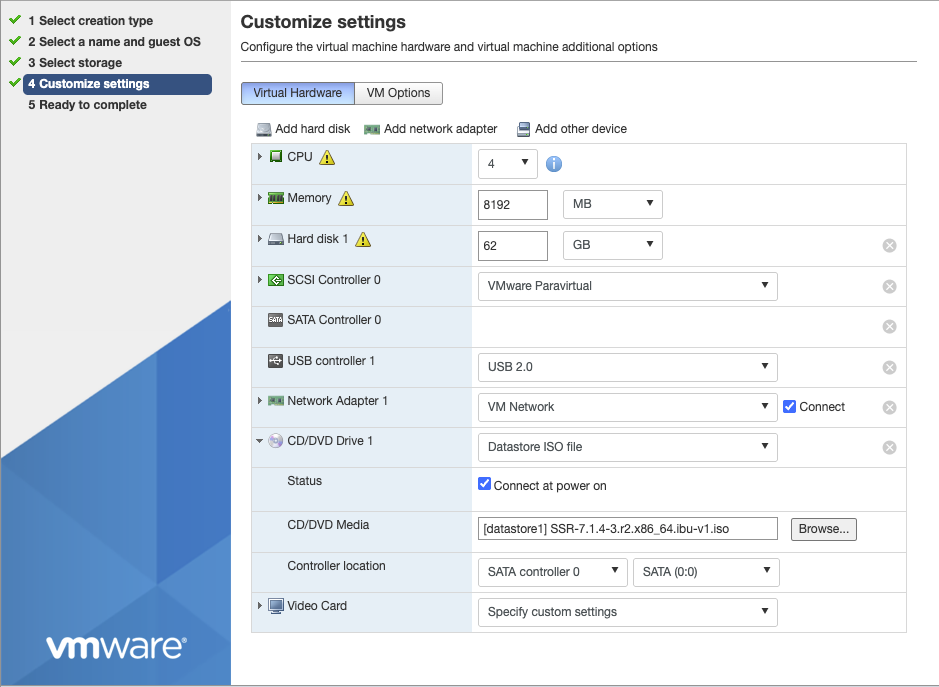
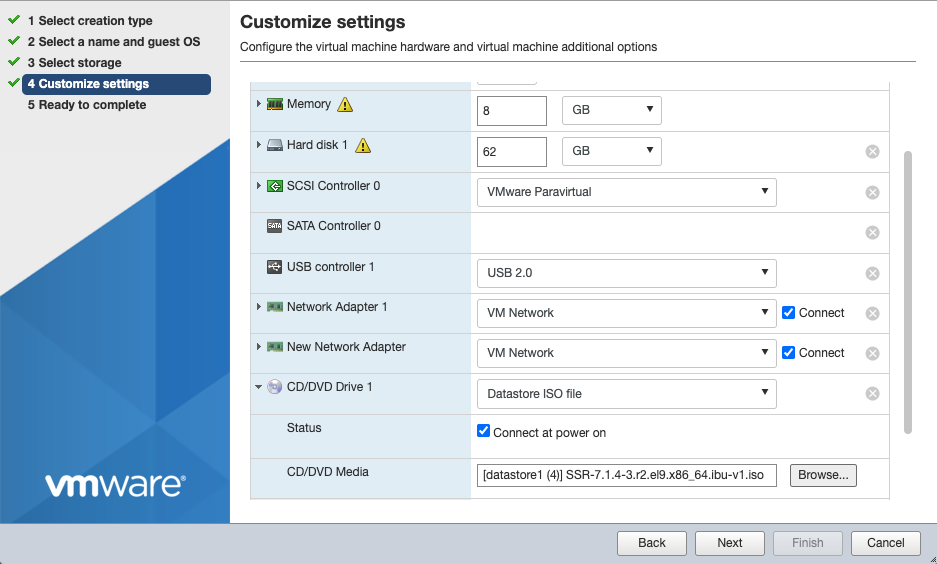
More vmware creation updates

diff --git a/docs/_vmware_router_vm_create.md b/docs/_vmware_router_vm_create.md
@@ -61,7 +61,7 @@ Use the steps below to configure the following:
 
 6. On the **Customize settings** screen, click **Virtual Hardware** and configure the following settings. 
 
-   Click **Virtual Hardware** and configure the following settings. These values meet the minimum router requirements:
+  These values meet the minimum router requirements:
 
    | Setting | Value | Notes |
    |---------|-------|-------|
@@ -71,9 +71,7 @@ Use the steps below to configure the following:
    | Hard Disk 1 | `62 GB` | Minimum |
    | SCSI Controller 0 | `VMware Paravirtual` | |
 
-   <!---![Storage Parameters](/img/dep5-vm-params.png)
-
-   Click **Next** when the settings are configured.--->
+   ![Storage Parameters](/img/dep5-vmrouter-params.png)
 
 ### Network Adapters
 
@@ -81,9 +79,15 @@ A VMware router requires at least **two VMXNet3 network adapters**: one for WAN 
 
    ![Network Adapter Type](/img/dep6-vmrouter-nics.png)
 
-7. Set the existing adapter's **Adapter Type** to **VMXNET3** and connect it to your **WAN portgroup** — the portgroup that provides your ISP WAN connection with DHCP. **how do I do this?
+7. Set the existing adapter's **Adapter Type** to **VMXNET3** and select the appropriate **portgroup** name for the virtual network that will provide access to your WAN.
 
-8. Click **Add network adapter** to add a second adapter. Set its **Adapter Type** to **VMXNET3** and connect it to your **LAN portgroup** — the portgroup connected to your branch LAN. **how do I do this?
+8. Click **Add network adapter** to add a second adapter. Set its **Adapter Type** to **VMXNET3** and select the appropriate **portgroup** name for the virtual network that will provide access to your LAN.
+
+   :::note
+   If you need help creating portgroups and connecting them to your appropriate infrastructure, please consult your VMWare documentation.
+   :::
+
+   ![Add Network Adapter](/img/dep6-vmrouter-nics2.png)
 
    :::note
    The order of the adapters (NIC 1 = WAN, NIC 2 = LAN) corresponds to the PCI addresses you will identify in [Step 3 — Find VM NIC PCI Addresses](deploy_vmware_router_pci.mdx). Note which portgroup each adapter is connected to.
@@ -91,7 +95,9 @@ A VMware router requires at least **two VMXNet3 network adapters**: one for WAN 
 
 ### CD/DVD Media - Software Selection
 
-9. As shown in the image above, expand **CD/DVD Drive 1**. 
+9. Expand **CD/DVD Drive 1**. 
+
+   ![CD Drive 1](/img/dep-vmrouter-image-select.png)
 
 10. Place a check next to **Connect at power on**. In the dropdown to the right, select **Datastore ISO file** and then click **Browse**. The Datastore Browser opens.
 
@@ -103,7 +109,7 @@ A VMware router requires at least **two VMXNet3 network adapters**: one for WAN 
 
    ![Confirm Settings](/img/dep8-vm-all-settings.png) 
 
-### VM Options (Boot Settings)
+### Boot Settings
 
 13. Click the **VM Options** tab.
 
@@ -121,6 +127,8 @@ A VMware router requires at least **two VMXNet3 network adapters**: one for WAN 
     :::
 
     ![Boot Options](/img/vmware_vmoptions2.png)
+
+15. Click **Next**.
 
 15. Review the summary, then click **Finish**.
 